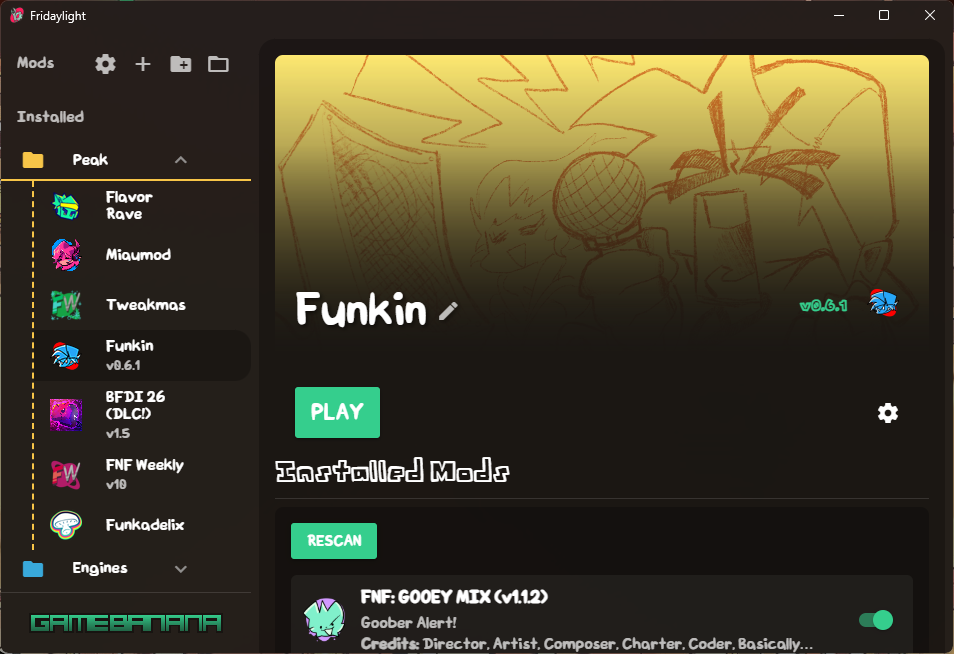
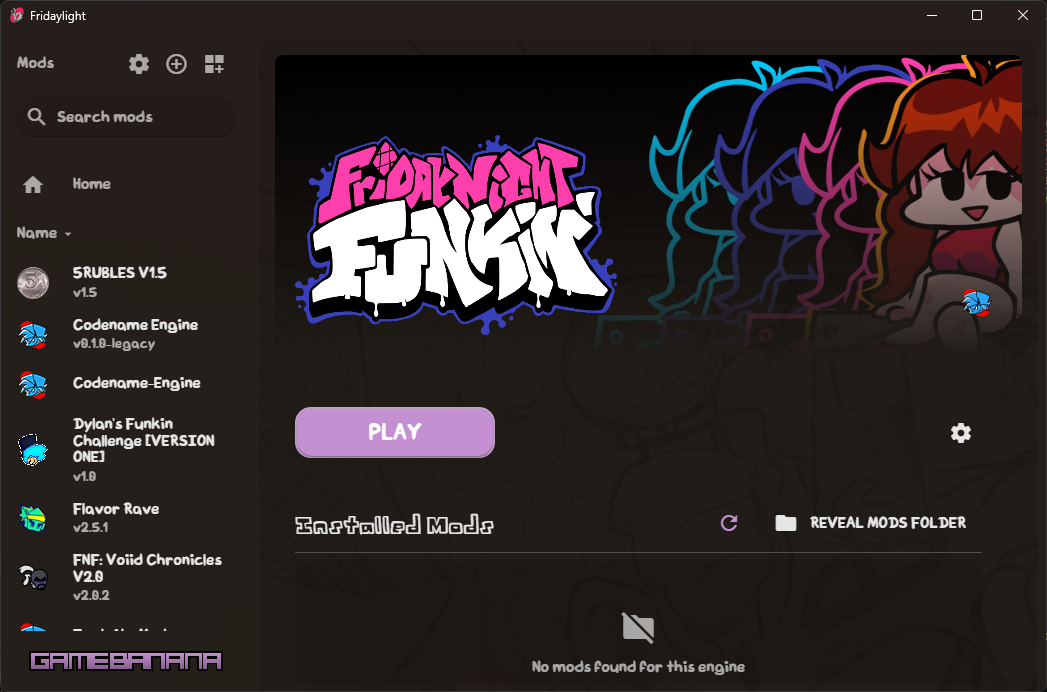
Fun docs stuff

diff --git a/docs/FAQ.md b/docs/FAQ.md
@@ -1,0 +1,37 @@
+# ![](/docs/faqs.png)
+
+## So... what even is the point of this?
+
+I made this originally because I wanted a better way to manage my mods, as I was tired of having to find the one I wanted to play by sifting through folders. And then while making that, I wanted to tackle the problem of mod downloading, mostly just for convinience for myself. This definitely isn't for everyone, and I personally think that for mods that are installed to an engine, an in-game mod manager would be better.
+
+## Why use this instead of [Funkin Launcher Legacy](https://gamebanana.com/tools/17526), [Funkin Launcher 2](https://gamebanana.com/wips/92420), or [FileDaddy](https://gamebanana.com/tools/7015)?
+
+I mean, if you want to use FileDaddy or Funkin Launcher, go ahead I guess. Even though FileDaddy and Funkin Launcher Legacy aren't maintained anymore, they all have really cool people behind them, and are both good at a couple of their own respective things!
+
+Fridaylight is more focused on the mod management side of things, so if you want to keep your standalone mods organized, this is probably the best option. It also combines a lot of the features from all of the launchers listed previously, so this might be a good all-in-one solution.
+
+## Why is this Windows only? Can't Tauri be multiplatform?
+
+Tauri can be multiplatform, but there's just a couple of things that I do that are very specific to Windows, like retreiving icons from the executables, some file management stuff, and the Mica theming. I also do not own a Mac to test this on at all. If you want to help port some of those features, please consider making a pull request.
+
+## Why does this take so long to download things?
+
+Most of the time, it's not the app's fault. Gamebanana is notorious for its slow downloading speeds, and its the main reason why most creators attach a Mediafire or Google Drive link on their mod pages. Sometimes, it might just be better to download the mods manually from those links, and then import them into Fridaylight.
+
+## Where can I download this from?
+
+The only places you should download this from are the [GitHub releases page](https://github.com/echolotl/fridaylight/releases), the Gamebanana page (when it releases), or eventually from [echolotl.lol/fridaylight](https://www.echolotl.lol/fridaylight) (also when it releases).
+
+## Speaking of which, when is this releasing?
+
+Sometime in September 2025, hopefully. There's still a few things I want to add or improve on before I feel okay with releasing a full version. You can help test right now, though, by downloading the latest pre-release version from the [GitHub releases page](https://github.com/echolotl/fridaylight/releases)!
+
+## Who made this?
+
+Mostly just me (echolotl), and any contributors that have helped out, whether that be with actual code or just submitting issues/suggestions. I did use a few fonts and images from other places, and you can view the full list in-app under the "About" section.
+
+## Who is this guy???? <img align="right" src="https://i.imgur.com/DcEYLmb.png" alt="Light the Lamp" width="128" height="173" />
+
+Well duh, that's Light! You didn't think I just randomly came up with "Fridaylight", maybe because it sounds like "Friday Night", on the spot, while submitting the original Gamebanana WIP, right? Wrong. It's entirely named on them and no other reason.
+
+**No more questions**. FAQ over.

diff --git a/README.md b/README.md
@@ -1,4 +1,4 @@
-# ![Fridaylight logo](/docs/fridaylight.png)
+# ![Fridaylight logo](/public/images/fridaylight-colored.svg)
 
 <p align="center">
 A mod manager for Friday Night Funkin mods!<br /><br />
@@ -7,10 +7,12 @@ A mod manager for Friday Night Funkin mods!<br /><br />
 <a href="https://quasar.dev/"><img alt="Quasar badge" src="https://img.shields.io/badge/quasar-050A14?style=for-the-badge&logo=quasar&logoColor=FFFFFF" /></a>
 <a href="https://www.rust-lang.org/"><img alt="Rust badge" src="https://img.shields.io/badge/rust-000000?style=for-the-badge&logo=rust&logoColor=FFFFFF" /></a>
 <a href="https://github.com/echolotl/fridaylight/actions/workflows/release.yml"><img alt="GitHub Actions Workflow Status" src="https://img.shields.io/github/actions/workflow/status/echolotl/fridaylight/release.yml?style=for-the-badge&logo=github&logoColor=FFFFFF"></a>
-
 </p>
 
-![Screenshot of main app layout](/docs/screenshot1.png)
+> [!IMPORTANT]
+> This is pre-release software. It may contain bugs or incomplete features, and you should expect to lose data. Check the [FAQ](/docs/FAQ.md) for more information, and report any issues (or suggestions) you have on the [GitHub issues page](https://github.com/echolotl/fridaylight/issues).
+
+![Screenshot of main app layout. The mods list is sorted by name, and is showing off the mod page for the original game.](/docs/screenshot1.png)
 
 ## Features
 

diff --git a/docs/METADATA.md b/docs/METADATA.md
@@ -1,4 +1,4 @@
-# Fridaylight Metadata
+# ![](/docs/metadata.png)
 
 Located in the same directory as the mod's executable, mod creators have the ability to provide additional metadata to be used and displayed on its mod page by creating a folder with the name `.flight` and including any of these files:
 

diff --git a/docs/COMPILING.md b/docs/COMPILING.md
@@ -1,4 +1,4 @@
-# Compiling Fridaylight
+# ![](/docs/compiling.png)
 
 ## Requirements
 
